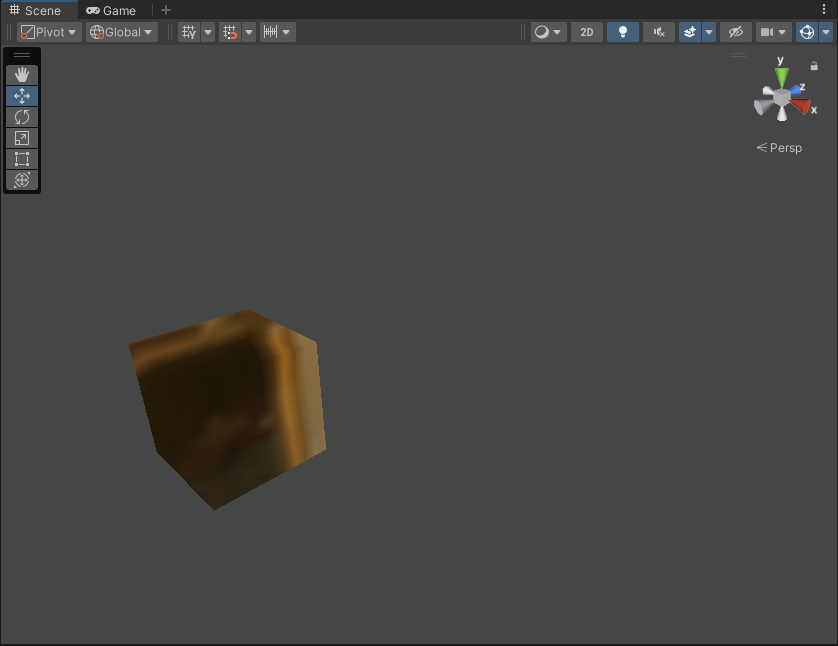
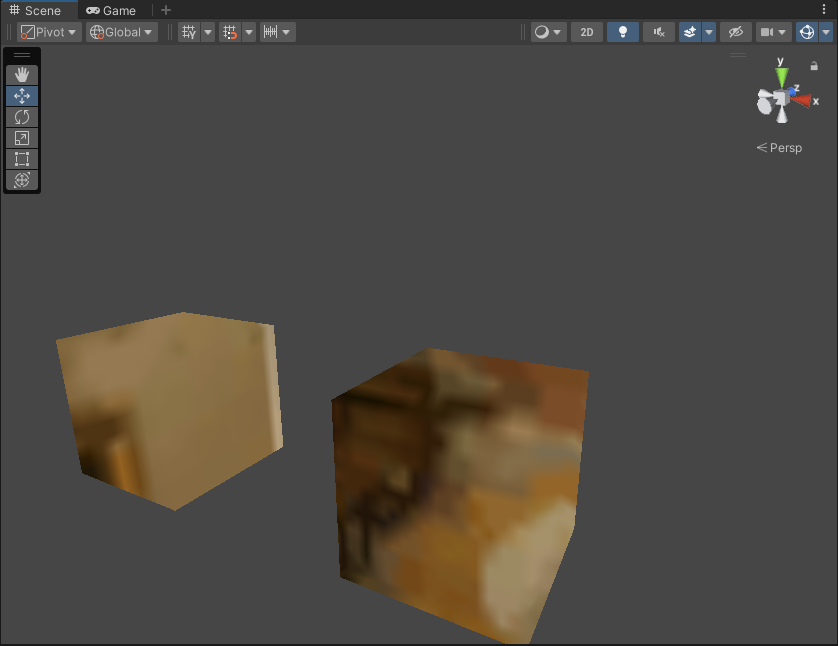
add refraction

Changed region(s): [[0.0621, 0.4644, 0.7136, 1.0], [0.8998, 0.1238, 0.9928, 0.1858]]

diff --git a/README.md b/README.md
@@ -47,5 +47,6 @@
 
 ### [章节10(高级纹理)](Assets/Unity%20Shaders%20Book/Chapter%2010)
 1. [Reflection(Cube)](Assets/Unity%20Shaders%20Book/Chapter%2010/Chapter10-Reflection.shader)
+2. [Refraction(Cube)](Assets/Unity%20Shaders%20Book/Chapter%2010/Chapter10-Refraction.shader)
 
 ![](Diagram/Chapter_10.png)
